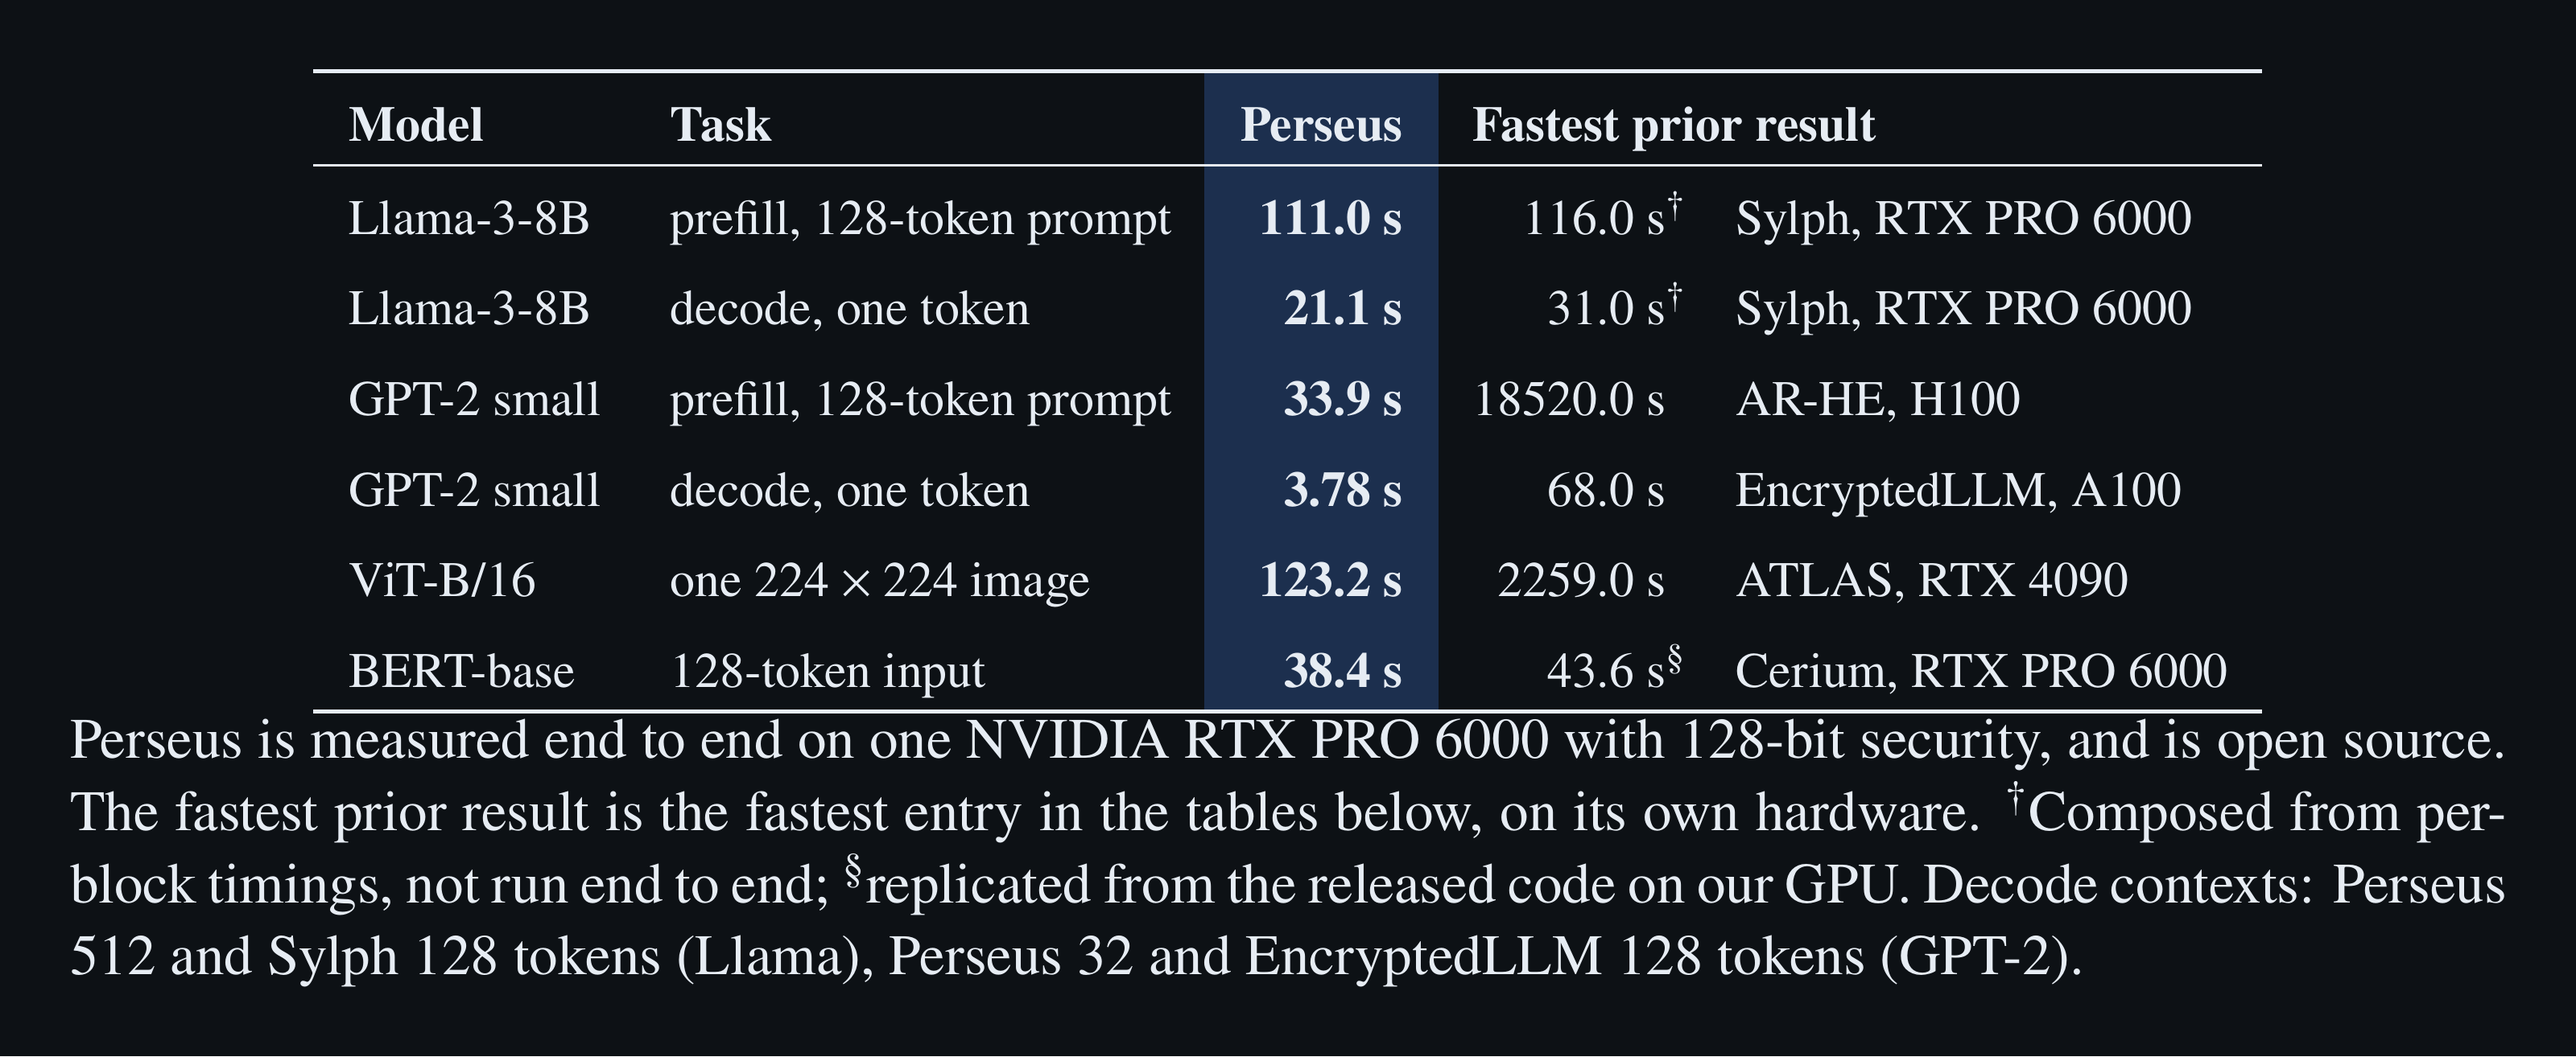
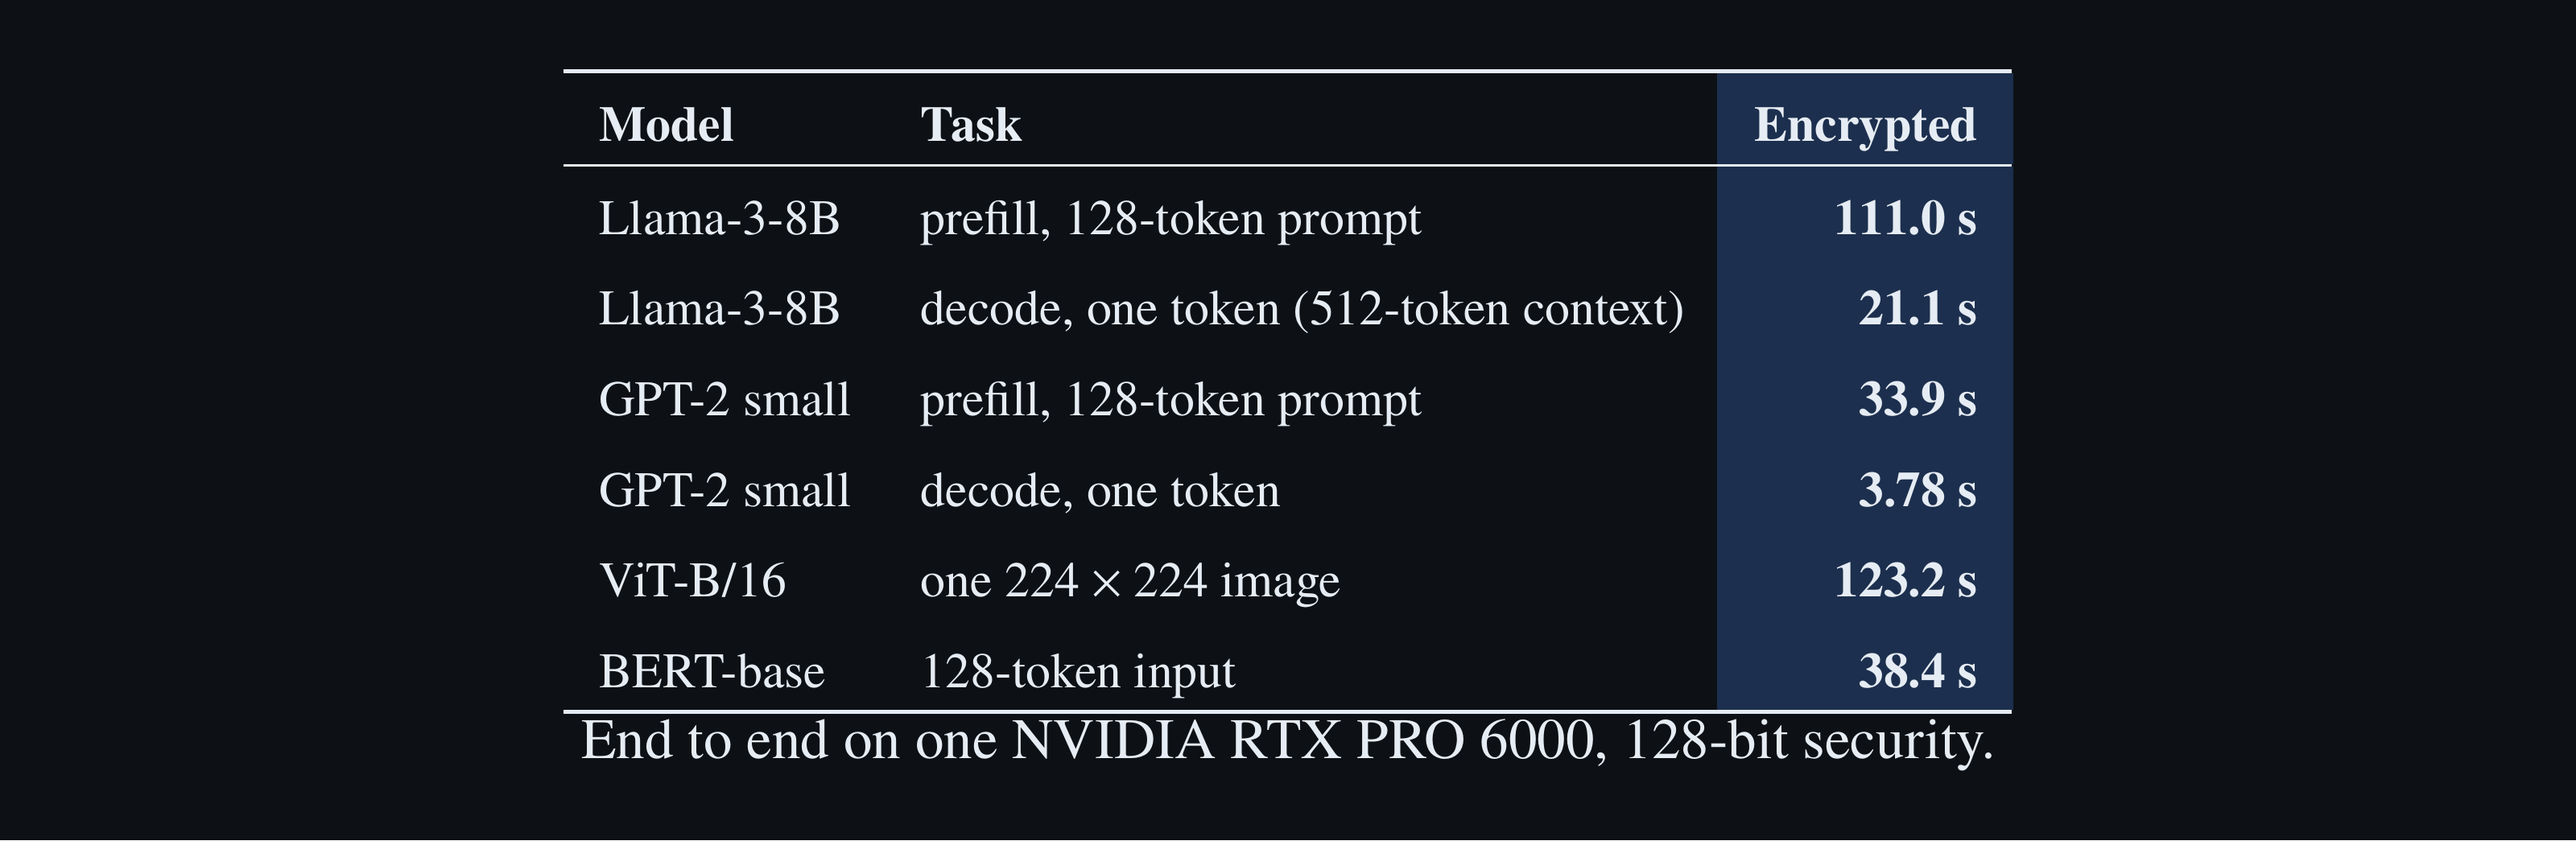
README: shorter, Perseus-only overview

Changed region(s): [[0.0312, 0.0612, 0.9688, 0.9493], [0.125, 0.5206, 0.2188, 0.5818]]

diff --git a/assets/paper-tables.tex b/assets/paper-tables.tex
@@ -28,22 +28,19 @@
 \begin{tbl}
 % no padding around the rules, so the Perseus column's fill runs unbroken from rule to rule
 \renewcommand{\arraystretch}{1.3}\setlength{\aboverulesep}{0pt}\setlength{\belowrulesep}{0pt}\setlength{\extrarowheight}{2pt}
-\begin{tabular}{llPrl}
+\begin{tabular}{llP}
 \toprule
-\textbf{Model} & \textbf{Task} & \textbf{Perseus} & \multicolumn{2}{l}{\textbf{Fastest prior result}} \\
+\textbf{Model} & \textbf{Task} & \textbf{Encrypted} \\
 \midrule
-Llama-3-8B & prefill, 128-token prompt & \textbf{111.0 s} & 116.0 s\nt{\dagger} & Sylph, RTX PRO 6000 \\
-Llama-3-8B & decode, one token & \textbf{21.1 s} & 31.0 s\nt{\dagger} & Sylph, RTX PRO 6000 \\
-GPT-2 small & prefill, 128-token prompt & \textbf{33.9 s} & 18520.0 s & AR-HE, H100 \\
-GPT-2 small & decode, one token & \textbf{3.78 s} & 68.0 s & EncryptedLLM, A100 \\
-ViT-B/16 & one $224\times224$ image & \textbf{123.2 s} & 2259.0 s & ATLAS, RTX 4090 \\
-BERT-base & 128-token input & \textbf{38.4 s} & 43.6 s\nt{\S} & Cerium, RTX PRO 6000 \\
+Llama-3-8B & prefill, 128-token prompt & \textbf{111.0 s} \\
+Llama-3-8B & decode, one token (512-token context) & \textbf{21.1 s} \\
+GPT-2 small & prefill, 128-token prompt & \textbf{33.9 s} \\
+GPT-2 small & decode, one token & \textbf{3.78 s} \\
+ViT-B/16 & one $224\times224$ image & \textbf{123.2 s} \\
+BERT-base & 128-token input & \textbf{38.4 s} \\
 \bottomrule
 \end{tabular}
-\tcap{Perseus is measured end to end on one NVIDIA RTX PRO 6000 with 128-bit security, and is open source. The fastest
-prior result is the fastest entry in the tables below, on its own hardware. $^\dagger$Composed from per-block timings,
-not run end to end; $^\S$replicated from the released code on our GPU. Decode contexts: Perseus 512 and Sylph 128 tokens
-(Llama), Perseus 32 and EncryptedLLM 128 tokens (GPT-2).}
+\tcap{\centering End to end on one NVIDIA RTX PRO 6000, 128-bit security.}
 \end{tbl}
 
 \begin{tbl}

diff --git a/README.md b/README.md
@@ -16,83 +16,42 @@
 
 <p align="center">
   <a href="#results">Results</a> ·
-  <a href="#whats-inside">What's inside</a> ·
-  <a href="#reproduce-the-numbers">Reproduce</a> ·
+  <a href="#reproduce">Reproduce</a> ·
   <a href="#0-install">Install</a> ·
   <a href="#python-api">Python API</a> ·
-  <a href="#citation">Citation</a> ·
-  <a href="https://github.com/gladia-research-group/FIDESlib32bits">FIDESlib32bits runtime</a>
+  <a href="#citation">Citation</a>
 </p>
 
-Perseus runs transformers under fully homomorphic encryption (FHE) on a single GPU. The server
-computes on a prompt, an image or a sentence that it never sees in the clear, and only the key
-holder can read the result. Models, data layouts, encrypted nonlinear functions and the placement
-of bootstraps are all Python, so a new model or technique is Python code, not a new CUDA codebase:
-BERT's encrypted forward pass is about 150 lines, Llama-3's prefill about 500. The GPU work runs on
-[FIDESlib32bits](https://github.com/gladia-research-group/FIDESlib32bits), our 32-bit port of the
-CKKS library [FIDESlib](https://github.com/CAPS-UMU/FIDESlib).
-
-On one NVIDIA RTX PRO 6000, Perseus takes an encrypted 128-token prompt through **Llama-3-8B in
-111 s**. That is 3.1× faster than Cerium, the fastest open-source framework, on the same GPU.
-It decodes an encrypted Llama-3-8B token in **21.1 s** at a 512-token context.
+Perseus runs transformers under fully homomorphic encryption on a single GPU: the server computes
+on data it never sees in the clear. Models, packings, nonlinear approximations and bootstrap
+placement are plain Python, on top of
+[FIDESlib32bits](https://github.com/gladia-research-group/FIDESlib32bits), our 32-bit GPU port
+of [FIDESlib](https://github.com/CAPS-UMU/FIDESlib).
 
 <p align="center">
   <a href="assets/paper-tables-overview-light.png">
     <picture>
       <source media="(prefers-color-scheme: dark)" srcset="assets/paper-tables-overview-dark.png">
       <source media="(prefers-color-scheme: light)" srcset="assets/paper-tables-overview-light.png">
-      <img src="assets/paper-tables-overview-light.png" alt="Perseus against the fastest prior result. Llama-3-8B prefill of a 128-token prompt: 111.0 s against Sylph's 116.0 s (composed timings). Llama-3-8B decode of one token: 21.1 s against Sylph's 31.0 s (composed). GPT-2 small prefill: 33.9 s against AR-HE's 18520.0 s on H100. GPT-2 small decode: 3.78 s against EncryptedLLM's 68.0 s on A100. ViT-B/16, one image: 123.2 s against ATLAS's 2259.0 s on RTX 4090. BERT-base, 128 tokens: 38.4 s against Cerium's 43.6 s on the same GPU." width="707">
+      <img src="assets/paper-tables-overview-light.png" alt="Perseus, encrypted, end to end on one RTX PRO 6000 with 128-bit security. Llama-3-8B: prefill of a 128-token prompt 111.0 s, decode of one token at a 512-token context 21.1 s. GPT-2 small: prefill 33.9 s, decode 3.78 s per token. ViT-B/16: 123.2 s per image. BERT-base: 38.4 s for 128 tokens." width="707">
     </picture>
   </a>
 </p>
 
 ## What's inside
 
-Perseus covers the whole encrypted inference stack, and adds one optimization at each of its three
-levels.
-
-- **Python, all the way down to the kernels.**
-  - Each model is a Python program on `perseus.impl`: GPT-2, Llama-3, BERT and ViT in
-    `examples/*_from_primitives`.
-  - Packings, encrypted LayerNorm, RMSNorm, softmax, GELU and SiLU, and linear layers are Python
-    you can read and change.
-  - The planner reads a record of the model's encrypted forward pass and decides where its
-    bootstraps go.
-- **In-kernel key regeneration** (cryptographic level).
-  - The uniformly random half of every key-switching key is regenerated, from a ChaCha12 seed,
-    inside the two kernels that use it. The other half is stored bit-packed.
-  - Key storage halves. On GPT-2 decoding, GPU memory drops from 41.6 to 32.6 GiB and the time
-    per token by 16%.
-- **Complex Cachemir packing** (data level).
-  - Cachemir's layout for the key/value cache, extended to the complex slots of CKKS.
-  - Each ciphertext carries two real vectors, which roughly doubles the throughput of many
-    operations and roughly halves their memory.
-- **Packing- and magnitude-aware bootstrap placement** (model level).
-  - Perseus records one encrypted forward pass, with the layout and the largest magnitude of
-    every value, and places the bootstraps with an iterated minimum cut.
-  - Each bootstrap gets the scaling its values allow. A cheaper sparse bootstrap is used wherever
-    a ciphertext holds only a few distinct values.
-  - Against DaCapo, Orion and Fhelipe on the same runtime, GPT-2 runs 416 bootstraps per token
-    instead of 584–894 ([placement study](docs/PLACEMENT_STUDY.md)).
-- **Numbers you can rerun.**
-  - Every Perseus result below, except the Llama-3 decode, has a script in
-    [`scripts/repro/`](scripts/repro).
-  - The tag [`table-2026-10-19`](https://github.com/gladia-research-group/perseus/tree/table-2026-10-19)
-    freezes the code and the plans.
-  - [`docs/RESULTS_2026-10-19.md`](docs/RESULTS_2026-10-19.md) lists every run.
-
-Also in the repository:
-- an exact placement algorithm, `--placer ilp`, which solves the same problem as a mixed-integer
-  program (`docs/PLACER_ILP.md`);
-- the HEAT GPT-2, fine-tuned for encryption, with its plans (`bootstrap_placements/README.md`);
-- a client/server split that keeps the secret key on the client (`docs/SECURITY_MODEL.md`);
-- a GPU test suite (`tests/dev`) and notebooks.
+- **Python end to end.** GPT-2, Llama-3, BERT and ViT are Python programs on `perseus.impl`
+  (`examples/*_from_primitives`), with readable packings, nonlinearities and layers.
+- **In-kernel key regeneration.** Half of every key-switching key is regenerated on the GPU from a
+  ChaCha12 seed instead of being stored.
+- **Complex Cachemir packing.** Two real vectors per ciphertext, in the complex slots of CKKS.
+- **Packing- and magnitude-aware bootstrap placement.** GPT-2 runs 416 bootstraps per token,
+  against 584–894 for DaCapo, Orion and Fhelipe ([study](docs/PLACEMENT_STUDY.md)).
 
 ## Results
 
-All Perseus numbers are measured end to end on one NVIDIA RTX PRO 6000 (96 GB). They use the
-32-bit CKKS parameters (ring dimension 2<sup>16</sup>) and 128-bit security. Prior results are
-reported on their own hardware, or replicated on ours where the code is released.
+One NVIDIA RTX PRO 6000, 128-bit security. Prior results on their own hardware, or replicated on
+ours where the code is released.
 
 <p align="center">
   <a href="assets/paper-tables-llama-prefill-light.png">
@@ -144,17 +103,13 @@ reported on their own hardware, or replicated on ours where the code is released
   </a>
 </p>
 
-- Every Perseus time excludes key generation, encryption and decryption.
-- The prefill rows and BERT time a pass after an untimed warm-up on another input. ViT is the
-  median over four images.
-- The GPT-2 decode includes the encrypted argmax that picks the next token on the server.
-- The tables' sources are in `assets/paper-tables.tex`.
+Times exclude key generation, encryption and decryption. The protocol and every run are in
+[`docs/RESULTS_2026-10-19.md`](docs/RESULTS_2026-10-19.md).
 
-## Reproduce the numbers
+## Reproduce
 
-Each script runs one Perseus row on one GPU and prints its `SUMMARY` line with the time and the
-accuracy against the float64 model. Build first ([Install](#0-install)). `NODE` and `MEMS` bind
-the host side to the GPU's NUMA node, which the published numbers used.
+After the [install](#0-install), each script prints one row's time and its accuracy against the
+float64 model (`NODE`/`MEMS` bind it to the GPU's NUMA node):
 
 ```bash
 GPU=0 NODE=1 MEMS=1,2 bash scripts/repro/llama_prefill128.sh   # Llama-3-8B, 128-token prefill
@@ -164,16 +119,8 @@ GPU=0 bash scripts/repro/bert_base.sh                           # BERT-base, 128
 GPU=0 bash scripts/repro/vit_base.sh                            # ViT-B/16, four EuroSAT images
 ```
 
-- `BERT_WARMUP=1` and `GPT2_PF_WARMUP=1` give the warm-up protocol of the tables. Without them,
-  BERT and GPT-2 prefill are timed cold.
-- Every switch a run needs is stored in its plan (`bootstrap_placements/*/PLAN_CMD.txt`). No
-  environment file is needed beyond `scripts/local_env.sh`.
-- Llama-3-8B needs access to `meta-llama/Llama-3.1-8B` on Hugging Face.
-- Llama-3-8B, BERT and ViT do not fit in 48 GB of GPU memory (they were measured on 96 GB). They
-  use up to about 160 GB of host memory.
-- Run one model per GPU on an otherwise quiet machine. A run that shuts down while another one is
-  running stalls it for a few seconds. [`docs/RESULTS_2026-10-19.md`](docs/RESULTS_2026-10-19.md)
-  explains the protocol.
+BERT and GPT-2 prefill match the tables with `BERT_WARMUP=1` / `GPT2_PF_WARMUP=1`. Llama-3-8B
+needs access to `meta-llama/Llama-3.1-8B`; Llama, BERT and ViT were measured on a 96 GB GPU.
 
 ## Layout
 
